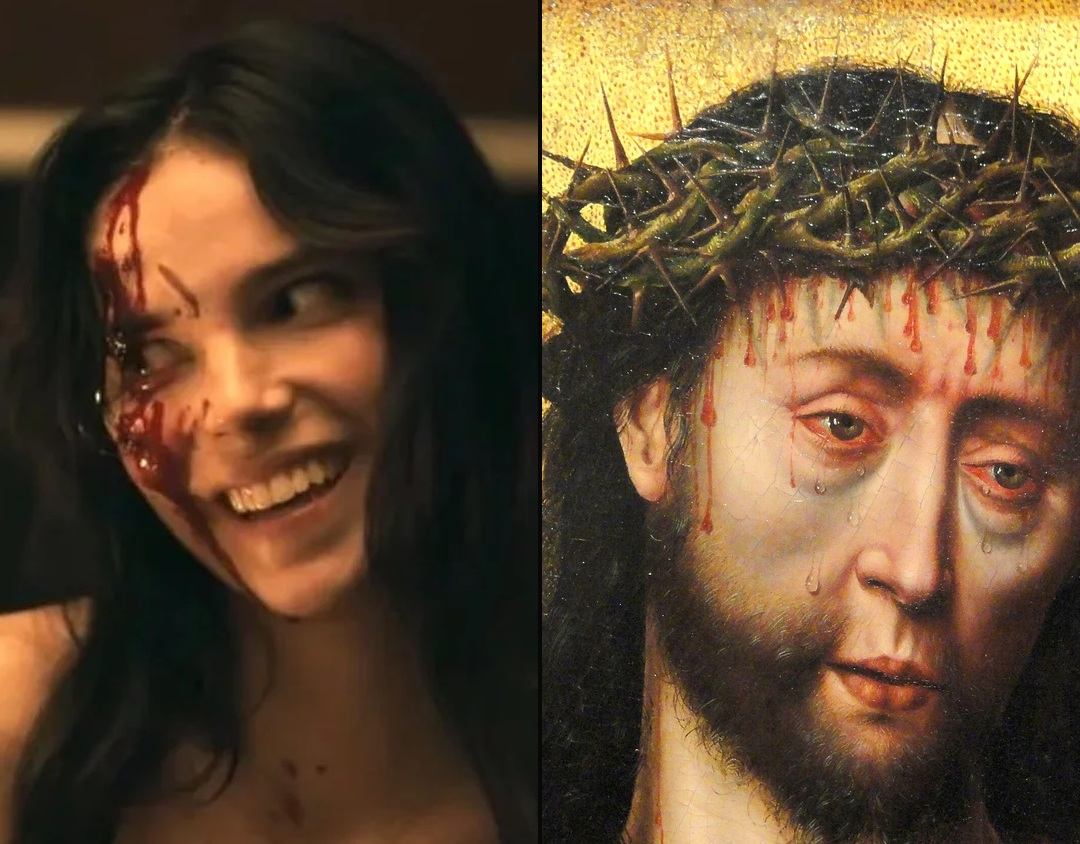
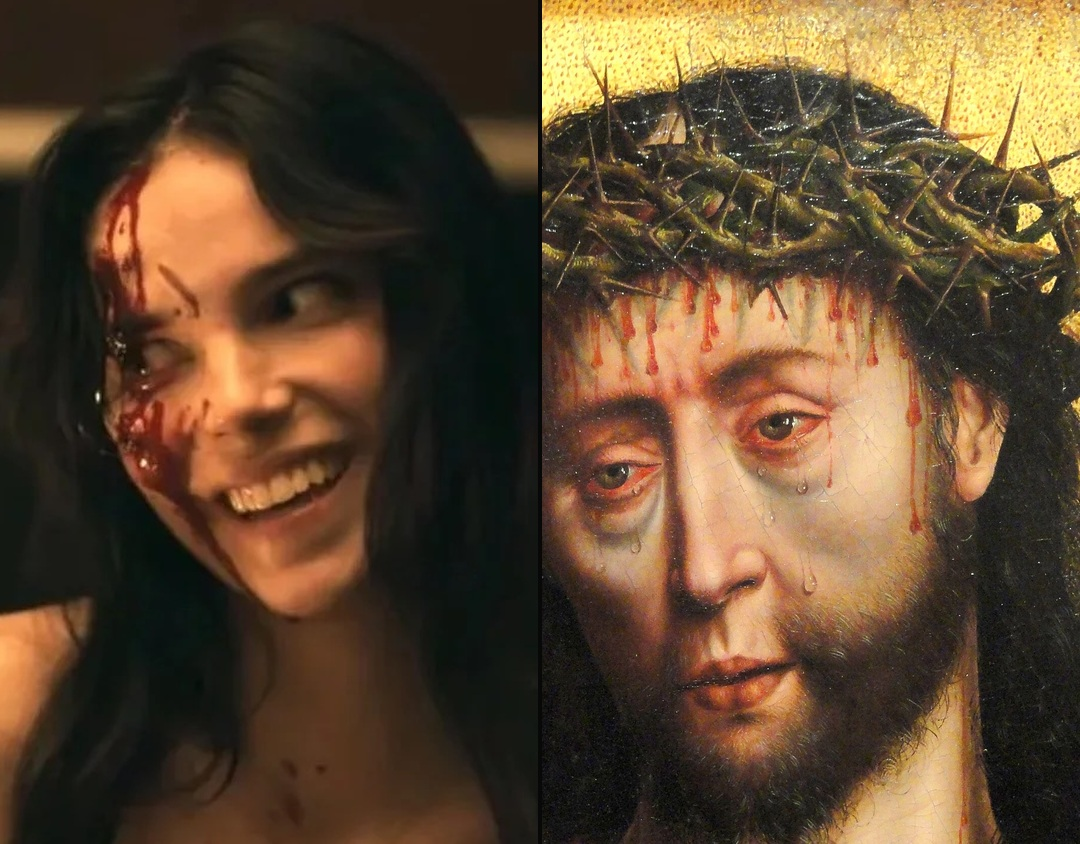
Mirror the artwork when direction disagrees — now structural
The Bouts pairing went out with his head tilting opposite hers; house
rule 1 (direction must agree) existed but nothing enforced it. The
judge now declares mirror per option, previews render it, and both
composers apply it. Corrected showcase image committed.

diff --git a/scripts/judge.py b/scripts/judge.py
@@ -282,6 +282,8 @@ def match_preview(query_image, art_image, row):
     """Side-by-side of the two images AFTER the judge's zoom/rotation — the
     user compares the actual match, not the whole canvases."""
     art = art_image
+    if row.get("mirror"):
+        art = art.transpose(Image.FLIP_LEFT_RIGHT)
     rotate = int(row.get("rotate") or 0) % 360
     if rotate in ROTATE_OPS:
         art = art.transpose(ROTATE_OPS[rotate])
@@ -446,11 +448,14 @@ def judge(query_path, context="", pool=16, keep=5, no_live=False, json_out=None)
         "image that should sit side by side so the twinning is undeniable. "
         "Boxes are [left, top, width, height] as fractions of the image. "
         "rotate is degrees counterclockwise applied to the ARTWORK BEFORE its "
-        "box is taken (0 unless a rotation genuinely improves the match).\n\n"
+        "box is taken (0 unless a rotation genuinely improves the match). "
+        "mirror (true/false): flip the artwork horizontally so head tilt, gaze "
+        "and the anomaly sit on the SAME side as the photo — direction must "
+        "agree (house rule 1); mirror whenever it improves agreement.\n\n"
         f"Reply with STRICT JSON only:\n"
         '{"ranking": [{"candidate": <n>, "visual": <0-10>, "concept": <0-10>, '
         '"why": "<one short sentence>", '
-        '"query_box": [l, t, w, h], "art_box": [l, t, w, h], "rotate": 0}, ...], '
+        '"query_box": [l, t, w, h], "art_box": [l, t, w, h], "rotate": 0, "mirror": false}, ...], '
         '"winner": <n>, "caption": "<one witty line for the post, no hashtags>"}'
         f"\nRank the best {keep}, and the top 3 MUST come from three different art "
         "families or subject types — if several Madonnas (or several of anything) "
@@ -507,7 +512,7 @@ def judge(query_path, context="", pool=16, keep=5, no_live=False, json_out=None)
                 "medium": work.get("medium", ""),
                 "hires": work.get("hires") or work.get("image"),
                 "query_box": row.get("query_box"), "art_box": row.get("art_box"),
-                "rotate": row.get("rotate", 0),
+                "rotate": row.get("rotate", 0), "mirror": bool(row.get("mirror")),
                 "visual": row.get("visual"), "concept": row.get("concept"),
                 "why": row.get("why", ""),
                 "thumb": thumb.name if thumb else None,

diff --git a/scripts/compose_boxes.py b/scripts/compose_boxes.py
@@ -50,9 +50,11 @@ def fit(image, target_w, target_h):
 
 
 def compose(query_path, art_path, out_path, query_box=None, art_box=None,
-            rotate=0):
+            rotate=0, mirror=False):
     query = boxed(Image.open(query_path).convert("RGB"), query_box)
     art = Image.open(art_path).convert("RGB")
+    if mirror:
+        art = art.transpose(Image.FLIP_LEFT_RIGHT)
     if int(rotate) % 360 in ROTATE_OPS:
         art = art.transpose(ROTATE_OPS[int(rotate) % 360])
     art = boxed(art, art_box)
@@ -86,4 +88,5 @@ if __name__ == "__main__":
     art_box = parse_box(argv[argv.index("--art-box") + 1]) \
         if "--art-box" in argv else None
     rotate = int(argv[argv.index("--rotate") + 1]) if "--rotate" in argv else 0
-    compose(argv[0], argv[1], argv[2], query_box, art_box, rotate)
+    compose(argv[0], argv[1], argv[2], query_box, art_box, rotate,
+            mirror="--mirror" in argv)
